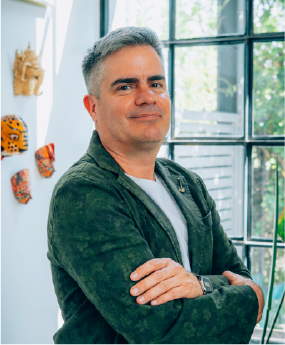
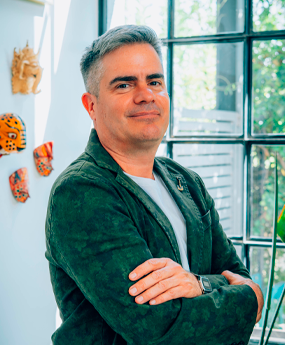
wip

diff --git a/src/components/index/TeamCarousel.tsx b/src/components/index/TeamCarousel.tsx
@@ -5,17 +5,17 @@ const members = [
     {
         name: "Fausto Manrique",
         title: "Co - Fundador | Director de Marketing",
-        image: "/images/equipo/fausto.png",
+        image: "/images/equipo/fausto.webp",
     },
     {
         name: "Martina Bustos",
         title: "Co - Fundadora | Directora de Comunicación",
-        image: "/images/equipo/martina.png",
+        image: "/images/equipo/martina.webp",
     },
     {
         name: "Yasmina Muñoz",
         title: "Diseñadora Gráfica Senior",
-        image: "/images/equipo/yasmina.png",
+        image: "/images/equipo/yasmina.webp",
     },
 ];
 
